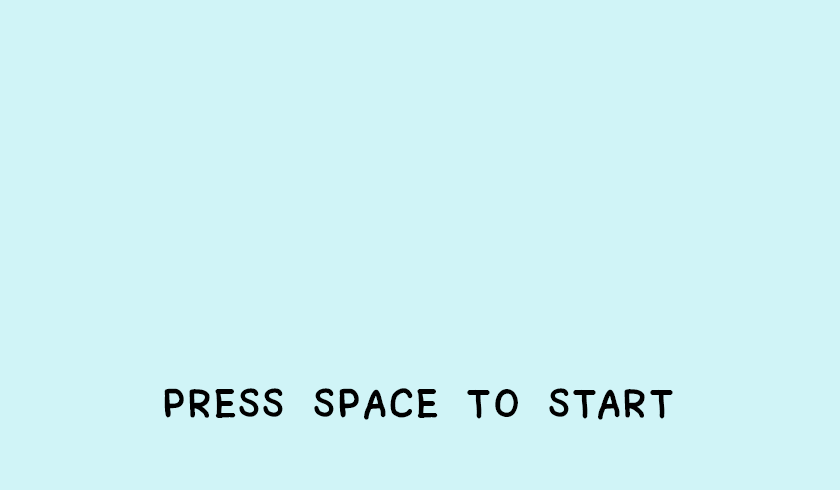
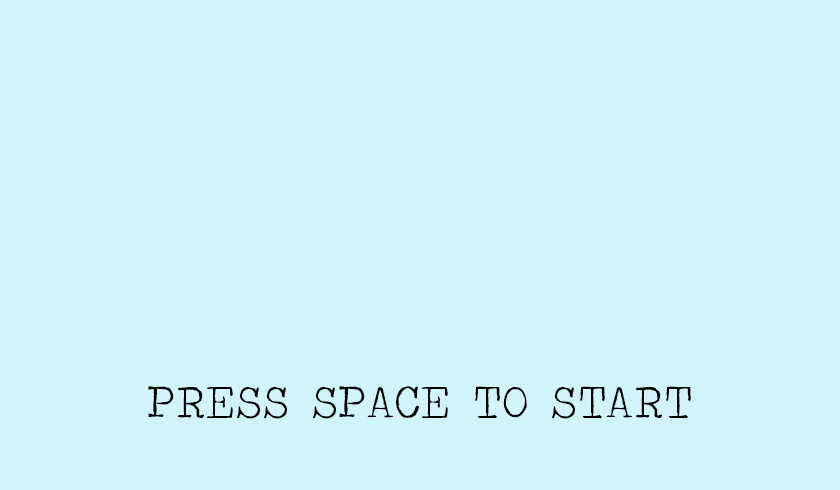
pressStartTag finished.

diff --git a/core/src/com/wannabe/ontop/WorldRenderer.java b/core/src/com/wannabe/ontop/WorldRenderer.java
@@ -10,10 +10,13 @@ public class WorldRenderer {
 	private World world;
 	private Texture playerOneImg;
 	private Texture playerTwoImg;
-	private Texture cloudOneImg;
-	private Texture cloudTwoImg;
 	private Texture initialPage;
+	private Texture playerOneWinPage;
+	private Texture playerTwoWinPage;
 	private MapRenderer mapRenderer;
+	
+	private Texture startTag;
+	private Texture restartTag;
 
 	public WorldRenderer(WannaBeOnTop wannaGame, World world) {
     	batch = wannaGame.batch;
@@ -21,15 +24,17 @@ public class WorldRenderer {
     	
     	playerOneImg = new Texture("slimePurpleBan.png");
     	playerTwoImg = new Texture("slimeBlueBan.png");
-    	cloudOneImg = new Texture("cloud1.png");
-    	cloudTwoImg = new Texture("cloud2.png");
     	initialPage = new Texture("initialPage.png");
+    	playerOneWinPage = new Texture("winPage1.png");
+    	playerTwoWinPage = new Texture("winPage1.png");
+    	startTag = new Texture("pressStartTag.png");
+    	restartTag = new Texture("pressRestartTag.png");
     	mapRenderer = new MapRenderer(wannaGame.batch, world.getMap());
     }
 	
     public void render(float delta) {
+    	mapRenderer.render();
     	if(world.gameState == world.playingState) {
-	    	mapRenderer.render();
 	    	Vector2 posOne = world.getPlayerOne().getPosition();
 	    	Vector2 posTwo = world.getPlayerTwo().getPosition();
 	        batch.begin();
@@ -37,17 +42,23 @@ public class WorldRenderer {
 	        batch.draw(playerTwoImg, posTwo.x, posTwo.y);
 	        batch.end();
     	} else if(world.gameState == world.initialState) {
-	    	Vector2 posOne = world.getCloudOne().getPosition();
-	    	Vector2 posTwo = world.getCloudTwo().getPosition();
 	        batch.begin();
-	        batch.draw(initialPage, 0, 0);
-	        batch.draw(cloudOneImg, posOne.x, posOne.y);
-	        batch.draw(cloudTwoImg, posTwo.x, posTwo.y);
+	        	batch.draw(startTag, 210, 410);
 	        batch.end();
     	} else if(world.gameState == world.playerOneWin) {
-    		
+    		mapRenderer.render();
+	    	Vector2 posOne = world.getPlayerOne().getPosition();
+	        batch.begin();
+	        	batch.draw(restartTag, 210, 410);
+	        	batch.draw(playerOneImg, posOne.x, posOne.y);
+	        batch.end();
     	} else if(world.gameState == world.playerTwoWin) {
-    		
+    		mapRenderer.render();
+	    	Vector2 posTwo = world.getPlayerTwo().getPosition();
+	        batch.begin();
+	        	batch.draw(restartTag, 140, 360);
+	        	batch.draw(playerTwoImg, posTwo.x, posTwo.y);
+	        batch.end();
     	}
     }
 }

diff --git a/core/src/com/wannabe/ontop/World.java b/core/src/com/wannabe/ontop/World.java
@@ -3,8 +3,6 @@ package com.wannabe.ontop;
 public class World {
 	private Player playerOne;
 	private Player playerTwo;
-	private Player cloudOne;
-	private Player cloudTwo;
 	private Map map;
 	
 	public static int initialState = 0;
@@ -17,8 +15,6 @@ public class World {
 	World(WannaBeOnTop wannaGame) {
 		playerOne = new Player(83,140);
 		playerTwo = new Player(700,140);
-		cloudOne = new Player(160, 360);
-		cloudTwo = new Player(490, 220);
 		map = new Map();
 	}
 	
@@ -28,14 +24,6 @@ public class World {
 	
 	Player getPlayerTwo() {
 		return playerTwo;
-	}
-	
-	Player getCloudOne() {
-		return cloudOne;
-	}
-	
-	Player getCloudTwo() {
-		return cloudTwo;
 	}
 	
 	Map getMap() {
@@ -51,6 +39,14 @@ public class World {
 	}
 	
 	public void playerTwoWin() {
-		gameState = playerOneWin;
+		gameState = playerTwoWin;
+	}
+	
+	public void restart() {
+		gameState = playingState;
+		playerOne.getPosition().x = 83;
+		playerOne.getPosition().y = 140;
+		playerTwo.getPosition().x = 700;
+		playerTwo.getPosition().y = 140;
 	}
 }

diff --git a/core/src/com/wannabe/ontop/GameScreen.java b/core/src/com/wannabe/ontop/GameScreen.java
@@ -40,9 +40,13 @@ public class GameScreen extends ScreenAdapter {
     }
     
     private void update(float delta) {
-    	if((world.gameState ==  world.initialState) || (world.gameState == world.playerOneWin) || (world.gameState == world.playerTwoWin)) {
+    	if(world.gameState ==  world.initialState) {
     		if(Gdx.input.isKeyPressed(Keys.SPACE)) {
-	    		world.gameState = world.playingState;
+	    		world.gameRunning();
+	        }
+    	} else if((world.gameState == world.playerOneWin) || (world.gameState == world.playerTwoWin)) {
+    		if(Gdx.input.isKeyPressed(Keys.SPACE)) {
+	    		world.restart();
 	        }
     	}
     	
@@ -87,9 +91,9 @@ public class GameScreen extends ScreenAdapter {
     	}
         
         if(checkCollision(playerOne, playerTwo)) {
-        	world.gameState = world.playerOneWin;
+        	world.playerOneWin();
         } else if(checkCollision(playerTwo, playerOne)) {
-        	world.gameState = world.playerTwoWin;
+        	world.playerTwoWin();
         }
     }
     

diff --git a/core/src/com/wannabe/ontop/MapRenderer.java b/core/src/com/wannabe/ontop/MapRenderer.java
@@ -10,6 +10,8 @@ public class MapRenderer {
     private Texture groundImage;
     private Texture grassImage;
     private Texture skyImage;
+	private Texture cloudOneImg;
+	private Texture cloudTwoImg;
     
     public MapRenderer(SpriteBatch batch, Map maze) {
         this.map = map;
@@ -20,6 +22,8 @@ public class MapRenderer {
         groundImage = new Texture("grassCenter.png");
         grassImage = new Texture("grassMid.png");
         skyImage = new Texture("bg.png");
+    	cloudOneImg = new Texture("cloud1.png");
+    	cloudTwoImg = new Texture("cloud2.png");
         
     }
  
@@ -39,6 +43,8 @@ public class MapRenderer {
                 }
             }
         }
+        batch.draw(cloudOneImg, 160, 330);
+        batch.draw(cloudTwoImg, 490, 220);
         batch.end();
     }
 }
